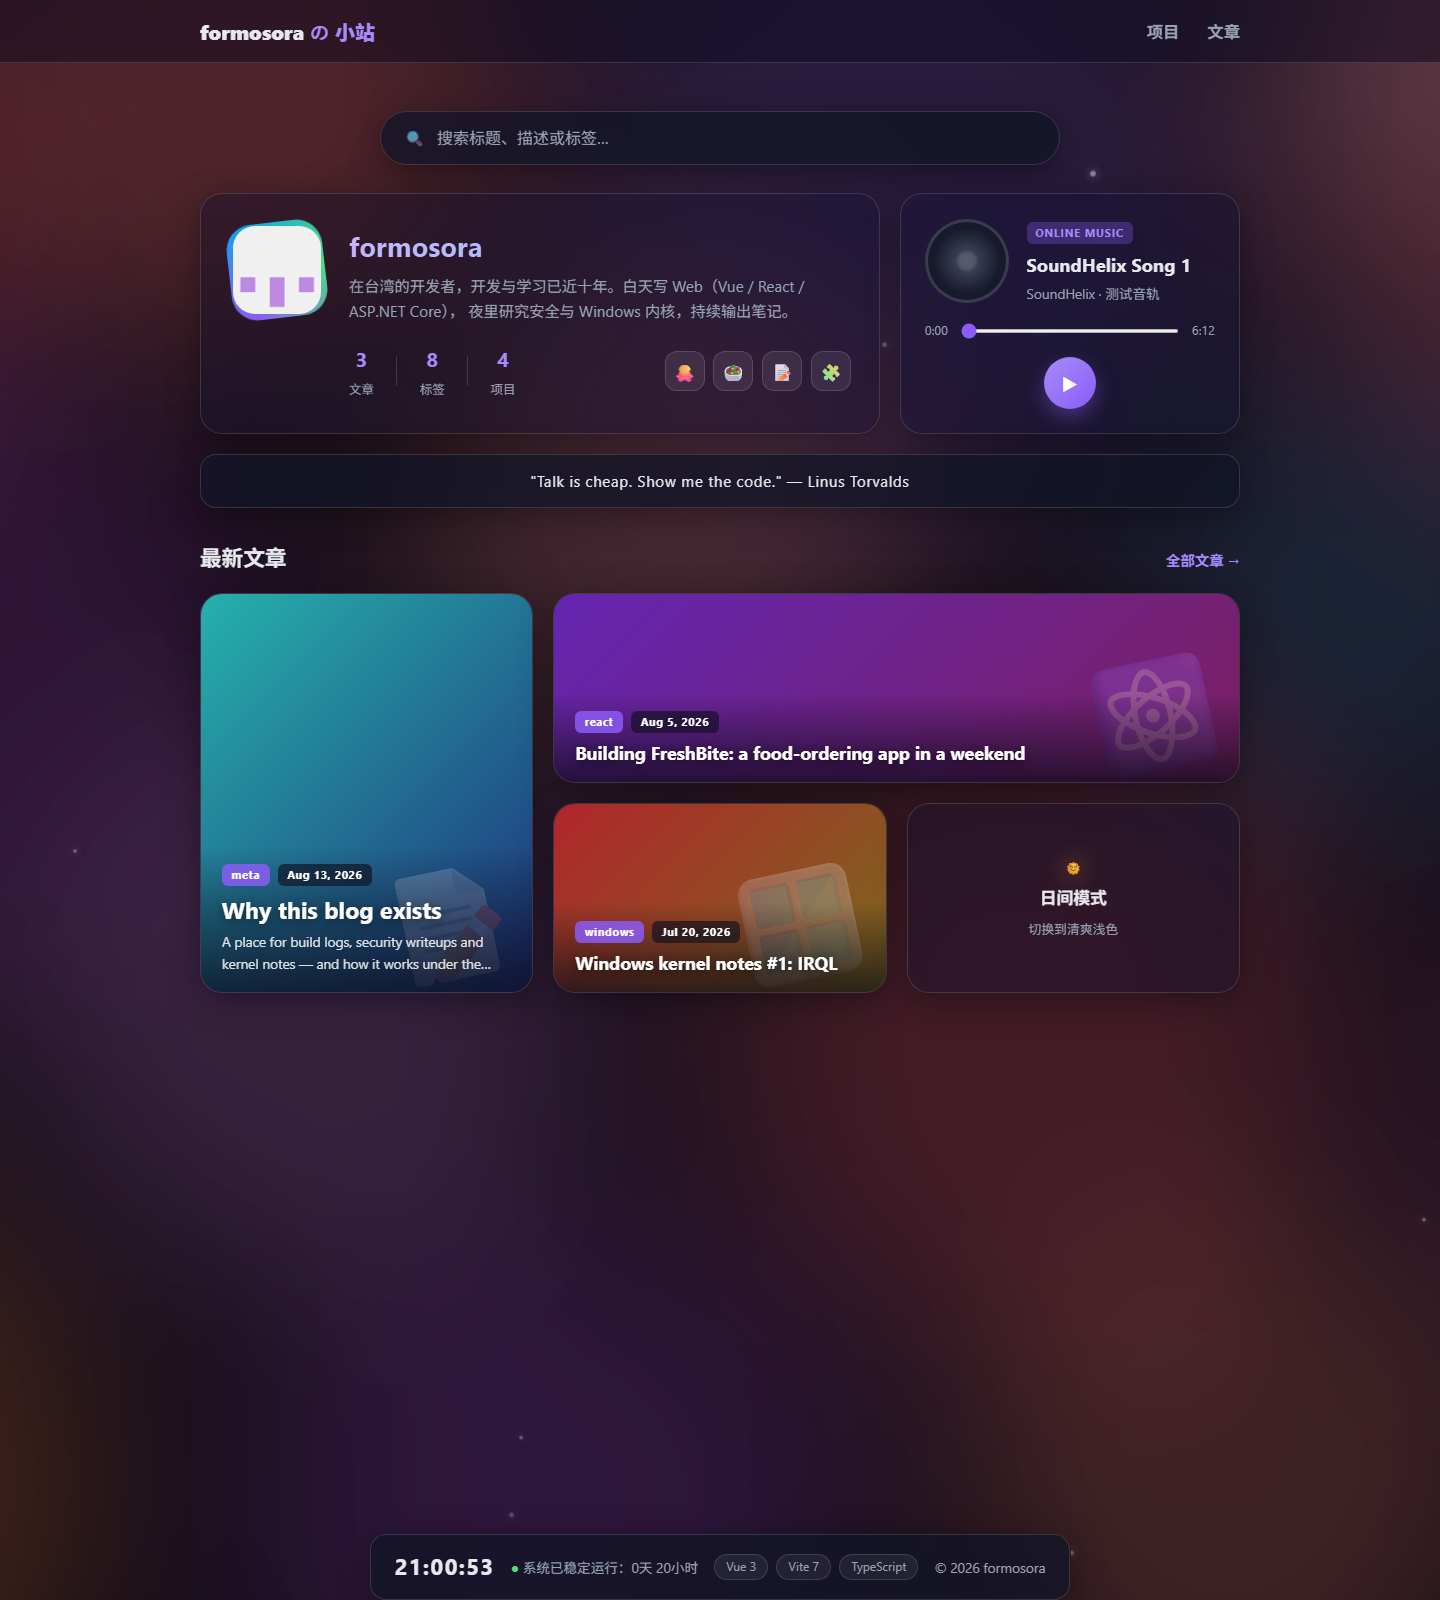
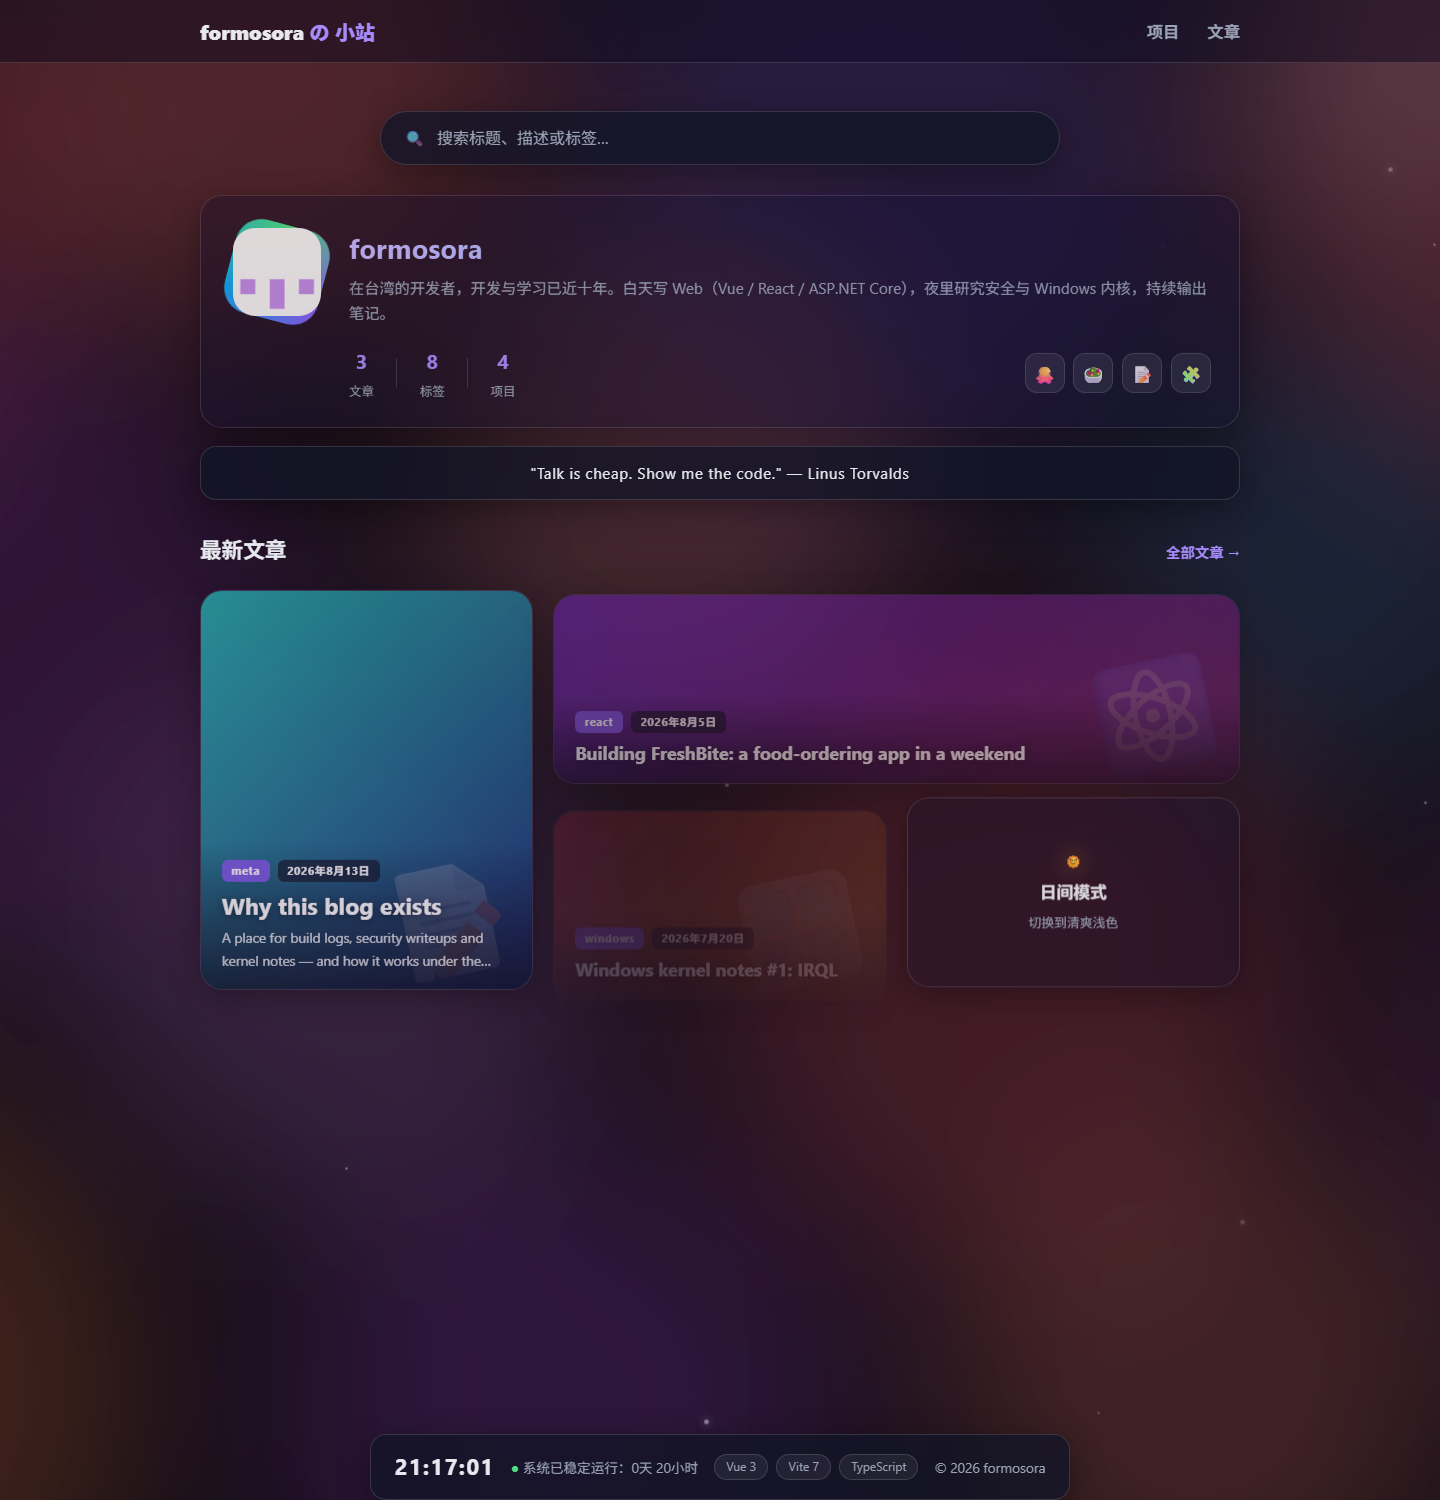
Remove music card, add zh/en i18n following browser language

diff --git a/src/pages/Projects.vue b/src/pages/Projects.vue
@@ -1,8 +1,11 @@
 <script setup lang="ts">
+import { t } from '../i18n'
+
 interface Project {
   emoji: string
   name: string
-  desc: string
+  zh: string
+  en: string
   tech: string[]
   url: string
 }
@@ -11,28 +14,32 @@ const projects: Project[] = [
   {
     emoji: '🥗',
     name: 'FreshBite',
-    desc: '一个简单的食物订购网页：React 19 + TypeScript 店面，ASP.NET Core 9 + FormCMS 无头后端，SQLite，单容器 Docker 部署。',
+    zh: '一个简单的食物订购网页：React 19 + TypeScript 店面，ASP.NET Core 9 + FormCMS 无头后端，SQLite，单容器 Docker 部署。',
+    en: 'A simple food-ordering web app: React 19 + TypeScript storefront, ASP.NET Core 9 + FormCMS headless backend, SQLite, single-container Docker deploy.',
     tech: ['React 19', 'TypeScript', 'ASP.NET Core', 'FormCMS', 'Docker'],
     url: 'https://github.com/formosora/freshbite',
   },
   {
     emoji: '📝',
     name: 'formosora · blog',
-    desc: '你正在看的这个站：Vue 3 + Vite 驱动的 Markdown 博客，自定义文章日期，毛玻璃 UI，GitHub Pages 自动部署。',
+    zh: '你正在看的这个站：Vue 3 + Vite 驱动的 Markdown 博客，自定义文章日期，毛玻璃 UI，GitHub Pages 自动部署。',
+    en: 'This very site: a Vue 3 + Vite Markdown blog with custom post dates, glassmorphism UI and GitHub Pages auto-deploy.',
     tech: ['Vue 3', 'TypeScript', 'Vite', 'GitHub Pages'],
     url: 'https://github.com/formosora/blog',
   },
   {
     emoji: '🧩',
     name: 'FormCMS',
-    desc: '开源无头 CMS：ASP.NET Core + React，REST / GraphQL 双 API，内置 GrapesJS 页面设计器。',
+    zh: '开源无头 CMS：ASP.NET Core + React，REST / GraphQL 双 API，内置 GrapesJS 页面设计器。',
+    en: 'Open-source headless CMS: ASP.NET Core + React, dual REST / GraphQL APIs, built-in GrapesJS page designer.',
     tech: ['C#', 'ASP.NET Core', 'React', 'GraphQL'],
     url: 'https://github.com/formosora/formcms',
   },
   {
     emoji: '🔐',
-    name: 'vuln-bite（规划中）',
-    desc: '故意埋入经典漏洞的 FreshBite 变体：SQLi / XSS / IDOR… 每个漏洞配攻击 writeup 与修复 commit，安全练手靶场。',
+    name: t('vuln-bite（规划中）', 'vuln-bite (planned)'),
+    zh: '故意埋入经典漏洞的 FreshBite 变体：SQLi / XSS / IDOR… 每个漏洞配攻击 writeup 与修复 commit，安全练手靶场。',
+    en: 'A deliberately vulnerable FreshBite variant: SQLi / XSS / IDOR… each with an attack writeup and a fix commit. A security training ground.',
     tech: ['Security', 'Web', 'Writeup'],
     url: 'https://github.com/formosora',
   },
@@ -41,7 +48,7 @@ const projects: Project[] = [
 
 <template>
   <div>
-    <h1 class="page-title">项目</h1>
+    <h1 class="page-title">{{ t('项目', 'Projects') }}</h1>
     <div class="project-grid">
       <div
         v-for="(p, i) in projects"
@@ -53,11 +60,11 @@ const projects: Project[] = [
           <span class="project-emoji">{{ p.emoji }}</span>
           <h2 class="project-name">{{ p.name }}</h2>
         </div>
-        <p class="project-desc">{{ p.desc }}</p>
+        <p class="project-desc">{{ t(p.zh, p.en) }}</p>
         <div class="project-tech">
-          <span v-for="t in p.tech" :key="t" class="tech-chip">{{ t }}</span>
+          <span v-for="tech in p.tech" :key="tech" class="tech-chip">{{ tech }}</span>
         </div>
-        <a :href="p.url" target="_blank" rel="noopener" class="project-link">查看 →</a>
+        <a :href="p.url" target="_blank" rel="noopener" class="project-link">{{ t('查看 →', 'View →') }}</a>
       </div>
     </div>
   </div>

diff --git a/src/components/ProfileCard.vue b/src/components/ProfileCard.vue
@@ -1,5 +1,6 @@
 <script setup lang="ts">
 import { computed } from 'vue'
+import { t } from '../i18n'
 import { posts } from '../posts'
 
 const postCount = posts.length
@@ -22,16 +23,18 @@ const projectCount = 4
     <div class="profile-main">
       <h1 class="profile-name">formosora</h1>
       <p class="profile-bio">
-        在台湾的开发者，开发与学习已近十年。白天写 Web（Vue / React / ASP.NET Core），
-        夜里研究安全与 Windows 内核，持续输出笔记。
+        {{ t(
+          '在台湾的开发者，开发与学习已近十年。白天写 Web（Vue / React / ASP.NET Core），夜里研究安全与 Windows 内核，持续输出笔记。',
+          'Developer based in Taiwan — nearly a decade of building & learning. Web (Vue / React / ASP.NET Core) by day, security and Windows kernels by night.'
+        ) }}
       </p>
 
       <div class="profile-stats">
-        <div class="stat"><b>{{ postCount }}</b><span>文章</span></div>
+        <div class="stat"><b>{{ postCount }}</b><span>{{ t('文章', 'Posts') }}</span></div>
         <div class="stat-divider" />
-        <div class="stat"><b>{{ tagCount }}</b><span>标签</span></div>
+        <div class="stat"><b>{{ tagCount }}</b><span>{{ t('标签', 'Tags') }}</span></div>
         <div class="stat-divider" />
-        <div class="stat"><b>{{ projectCount }}</b><span>项目</span></div>
+        <div class="stat"><b>{{ projectCount }}</b><span>{{ t('项目', 'Projects') }}</span></div>
 
         <div class="profile-socials">
           <a
@@ -48,8 +51,8 @@ const projectCount = 4
             rel="noopener"
             title="FreshBite"
           >🥗</a>
-          <RouterLink class="social-btn" to="/posts" title="文章">📝</RouterLink>
-          <RouterLink class="social-btn" to="/projects" title="项目">🧩</RouterLink>
+          <RouterLink class="social-btn" to="/posts" :title="t('文章', 'Posts')">📝</RouterLink>
+          <RouterLink class="social-btn" to="/projects" :title="t('项目', 'Projects')">🧩</RouterLink>
         </div>
       </div>
     </div>

diff --git a/src/pages/Home.vue b/src/pages/Home.vue
@@ -1,8 +1,8 @@
 <script setup lang="ts">
 import { computed, ref } from 'vue'
 import ProfileCard from '../components/ProfileCard.vue'
-import MusicCard from '../components/MusicCard.vue'
 import TickerBar from '../components/TickerBar.vue'
+import { t } from '../i18n'
 import { coverHue, formatDate, posts, tagEmoji } from '../posts'
 import { theme, toggleTheme } from '../theme'
 
@@ -33,21 +33,22 @@ const coverStyle = (slug: string) => {
   <div class="search-wrap">
     <label class="search-box">
       <span class="mag">🔍</span>
-      <input v-model="query" type="search" placeholder="搜索标题、描述或标签…" />
+      <input
+        v-model="query"
+        type="search"
+        :placeholder="t('搜索标题、描述或标签…', 'Search title, excerpt or tags…')"
+      />
     </label>
   </div>
 
-  <div class="home-grid">
-    <ProfileCard />
-    <MusicCard />
-  </div>
+  <ProfileCard />
 
   <TickerBar />
 
   <section>
     <div class="section-head">
-      <h2>最新文章</h2>
-      <RouterLink to="/posts" class="more-link">全部文章 →</RouterLink>
+      <h2>{{ t('最新文章', 'Latest writing') }}</h2>
+      <RouterLink to="/posts" class="more-link">{{ t('全部文章 →', 'All posts →') }}</RouterLink>
     </div>
 
     <div class="bento">
@@ -73,8 +74,10 @@ const coverStyle = (slug: string) => {
 
       <button class="glass-card bento-item theme-card" @click="toggleTheme">
         <span class="theme-icon">{{ theme === 'dark' ? '🌞' : '✨' }}</span>
-        <b>{{ theme === 'dark' ? '日间模式' : '夜间模式' }}</b>
-        <span>{{ theme === 'dark' ? '切换到清爽浅色' : '流萤飞舞的深空' }}</span>
+        <b>{{ theme === 'dark' ? t('日间模式', 'Light mode') : t('夜间模式', 'Dark mode') }}</b>
+        <span>{{
+          theme === 'dark' ? t('切换到清爽浅色', 'Switch to light') : t('流萤飞舞的深空', 'Fireflies in deep space')
+        }}</span>
       </button>
     </div>
   </section>

diff --git a/src/pages/About.vue b/src/pages/About.vue
@@ -1,18 +1,24 @@
+<script setup lang="ts">
+import { t } from '../i18n'
+</script>
+
 <template>
-  <div class="about">
-    <h1>About</h1>
+  <div class="about glass-card post-shell">
+    <h1>{{ t('关于', 'About') }}</h1>
     <p>
-      I'm <strong>formosora</strong>, a developer based in Taiwan with nearly a decade of
-      building and learning behind me. I work mostly on web development
-      (TypeScript, Vue / React, ASP.NET Core, Go) and I'm deep into security —
-      web security, reverse engineering, and understanding how systems break.
+      {{ t(
+        '我是 formosora，在台湾的开发者，开发与学习已近十年。主要做 Web 开发（TypeScript、Vue / React、ASP.NET Core、Go），同时深入研究安全——Web 安全、逆向工程，以及系统如何被攻破。',
+        "I'm formosora, a developer based in Taiwan with nearly a decade of building and learning behind me. I work mostly on web development (TypeScript, Vue / React, ASP.NET Core, Go) and I'm deep into security — web security, reverse engineering, and understanding how systems break."
+      ) }}
     </p>
     <p>
-      Lately I've been going lower level: Windows kernel internals and hypervisors.
-      This blog is where the notes land.
+      {{ t(
+        '最近在向更底层探索：Windows 内核与虚拟机监控程序。这个博客就是笔记落地的地方。',
+        "Lately I've been going lower level: Windows kernel internals and hypervisors. This blog is where the notes land."
+      ) }}
     </p>
     <p>
-      Find me on <a href="https://github.com/formosora" target="_blank" rel="noopener">GitHub</a>.
+      <a href="https://github.com/formosora" target="_blank" rel="noopener">GitHub →</a>
     </p>
   </div>
 </template>

diff --git a/src/components/TickerBar.vue b/src/components/TickerBar.vue
@@ -1,20 +1,31 @@
 <script setup lang="ts">
-import { onBeforeUnmount, onMounted, ref } from 'vue'
+import { computed, onBeforeUnmount, onMounted, ref } from 'vue'
+import { lang } from '../i18n'
 
-const lines = [
-  '"Talk is cheap. Show me the code." — Linus Torvalds',
-  '"Given enough eyeballs, all bugs are shallow." — Eric S. Raymond',
-  '在代码、安全与内核之间穿梭。',
-  '"Simplicity is the soul of efficiency." — Austin Freeman',
-  '"The best way to predict the future is to invent it." — Alan Kay',
-]
+const LINES = {
+  zh: [
+    '"Talk is cheap. Show me the code." — Linus Torvalds',
+    '在代码、安全与内核之间穿梭。',
+    '"Given enough eyeballs, all bugs are shallow." — Eric S. Raymond',
+    '持续学习，持续输出。',
+    '"The best way to predict the future is to invent it." — Alan Kay',
+  ],
+  en: [
+    '"Talk is cheap. Show me the code." — Linus Torvalds',
+    '"Given enough eyeballs, all bugs are shallow." — Eric S. Raymond',
+    'Coding, security & kernels.',
+    '"The best way to predict the future is to invent it." — Alan Kay',
+    'Keep learning, keep shipping.',
+  ],
+}
 
+const lines = computed(() => LINES[lang.value])
 const index = ref(0)
 let timer: number | undefined
 
 onMounted(() => {
   timer = window.setInterval(() => {
-    index.value = (index.value + 1) % lines.length
+    index.value = (index.value + 1) % lines.value.length
   }, 4200)
 })
 
@@ -24,7 +35,7 @@ onBeforeUnmount(() => clearInterval(timer))
 <template>
   <div class="ticker">
     <Transition name="ticker-fade" mode="out-in">
-      <span :key="index">{{ lines[index] }}</span>
+      <span :key="`${lang}-${index}`">{{ lines[index] }}</span>
     </Transition>
   </div>
 </template>

diff --git a/src/pages/Post.vue b/src/pages/Post.vue
@@ -1,6 +1,7 @@
 <script setup lang="ts">
 import { computed } from 'vue'
 import { useRoute } from 'vue-router'
+import { t } from '../i18n'
 import { formatDate, getPost, renderPost } from '../posts'
 
 const route = useRoute()
@@ -10,11 +11,11 @@ const html = computed(() => (post.value ? renderPost(post.value) : ''))
 
 <template>
   <article v-if="post" class="post glass-card post-shell">
-    <p><RouterLink to="/posts" class="back-link">← All posts</RouterLink></p>
+    <p><RouterLink to="/posts" class="back-link">{{ t('← 全部文章', '← All posts') }}</RouterLink></p>
     <h1 class="post-heading">{{ post.title }}</h1>
     <p class="post-meta">
       <time>{{ formatDate(post.date) }}</time>
-      <span v-if="post.updated" class="updated">(updated {{ formatDate(post.updated) }})</span>
+      <span v-if="post.updated" class="updated">({{ t('更新于', 'updated') }} {{ formatDate(post.updated) }})</span>
       <span class="post-tags">
         <span v-for="tag in post.tags" :key="tag" class="tag">#{{ tag }}</span>
       </span>
@@ -24,7 +25,7 @@ const html = computed(() => (post.value ? renderPost(post.value) : ''))
   </article>
 
   <div v-else class="glass-card post-shell not-found">
-    <h1>Post not found</h1>
-    <p><RouterLink to="/" class="back-link">← Back home</RouterLink></p>
+    <h1>{{ t('文章不存在', 'Post not found') }}</h1>
+    <p><RouterLink to="/" class="back-link">{{ t('← 返回首页', '← Back home') }}</RouterLink></p>
   </div>
 </template>

diff --git a/src/components/StatusBar.vue b/src/components/StatusBar.vue
@@ -1,5 +1,6 @@
 <script setup lang="ts">
 import { onBeforeUnmount, onMounted, ref } from 'vue'
+import { lang, t } from '../i18n'
 
 const LAUNCH = new Date('2026-08-13T00:00:00+08:00').getTime()
 
@@ -16,7 +17,7 @@ onMounted(() => {
     const diff = Math.max(0, now.getTime() - LAUNCH)
     const days = Math.floor(diff / 86400000)
     const hours = Math.floor((diff % 86400000) / 3600000)
-    uptime.value = `${days}天 ${hours}小时`
+    uptime.value = lang.value === 'zh' ? `${days}天 ${hours}小时` : `${days}d ${hours}h`
   }
   tick()
   timer = window.setInterval(tick, 1000)
@@ -28,7 +29,7 @@ onBeforeUnmount(() => clearInterval(timer))
 <template>
   <div class="status-bar">
     <span class="status-clock">{{ clock }}</span>
-    <span class="uptime"><span class="dot">●</span> 系统已稳定运行：{{ uptime }}</span>
+    <span class="uptime"><span class="dot">●</span> {{ t('系统已稳定运行：', 'Stable for ') }}{{ uptime }}</span>
     <span class="status-badges">
       <span class="tech-badge">Vue 3</span>
       <span class="tech-badge">Vite 7</span>

diff --git a/src/posts.ts b/src/posts.ts
@@ -1,4 +1,5 @@
 import MarkdownIt from 'markdown-it'
+import { lang } from './i18n'
 
 const md = new MarkdownIt({ html: true, linkify: true })
 
@@ -55,13 +56,15 @@ export const getPost = (slug: string): Post | undefined => posts.find(p => p.slu
 
 export const renderPost = (post: Post): string => (post.html ??= md.render(post.body))
 
-/** "2026-08-05" -> "Aug 5, 2026" */
-export const formatDate = (iso: string): string =>
-  new Date(`${iso}T00:00:00`).toLocaleDateString('en-US', {
+/** "2026-08-05" -> "Aug 5, 2026"（英文浏览器）或 "2026年8月5日"（中文浏览器） */
+export const formatDate = (iso: string): string => {
+  const isZh = lang.value === 'zh'
+  return new Date(`${iso}T00:00:00`).toLocaleDateString(isZh ? 'zh-CN' : 'en-US', {
     year: 'numeric',
-    month: 'short',
+    month: isZh ? 'long' : 'short',
     day: 'numeric',
   })
+}
 
 /** Deterministic hue from a string, for generated card covers. */
 export const coverHue = (seed: string): number => {

diff --git a/src/App.vue b/src/App.vue
@@ -1,6 +1,7 @@
 <script setup lang="ts">
 import BackgroundFX from './components/BackgroundFX.vue'
 import StatusBar from './components/StatusBar.vue'
+import { t } from './i18n'
 </script>
 
 <template>
@@ -9,10 +10,10 @@ import StatusBar from './components/StatusBar.vue'
 
     <header class="site-header glass-bar">
       <div class="wrap header-inner">
-        <RouterLink to="/" class="brand">formosora<span> の 小站</span></RouterLink>
+        <RouterLink to="/" class="brand">formosora<span>{{ t(' の 小站', ' · blog') }}</span></RouterLink>
         <nav class="site-nav">
-          <RouterLink to="/projects">项目</RouterLink>
-          <RouterLink to="/posts">文章</RouterLink>
+          <RouterLink to="/projects">{{ t('项目', 'Projects') }}</RouterLink>
+          <RouterLink to="/posts">{{ t('文章', 'Posts') }}</RouterLink>
         </nav>
       </div>
     </header>

diff --git a/src/pages/Posts.vue b/src/pages/Posts.vue
@@ -1,5 +1,6 @@
 <script setup lang="ts">
 import { computed, ref } from 'vue'
+import { t } from '../i18n'
 import { formatDate, posts } from '../posts'
 
 const activeTag = ref<string | null>(null)
@@ -12,15 +13,15 @@ const filtered = computed(() =>
 </script>
 
 <template>
-  <div class="posts-page">
-    <h1 class="page-title">All posts</h1>
+  <div>
+    <h1 class="page-title">{{ t('文章', 'Posts') }}</h1>
 
     <div class="tag-bar" v-if="allTags.length">
       <button
         class="tag-chip"
         :class="{ active: activeTag === null }"
         @click="activeTag = null"
-      >All</button>
+      >{{ t('全部', 'All') }}</button>
       <button
         v-for="tag in allTags"
         :key="tag"

diff --git a/src/i18n.ts b/src/i18n.ts
@@ -1,0 +1,7 @@
+import { ref } from 'vue'
+
+/** UI language follows the browser: zh-* -> Chinese, everything else -> English. */
+const browser = (navigator.language || 'en').toLowerCase()
+export const lang = ref<'zh' | 'en'>(browser.startsWith('zh') ? 'zh' : 'en')
+
+export const t = (zh: string, en: string): string => (lang.value === 'zh' ? zh : en)
